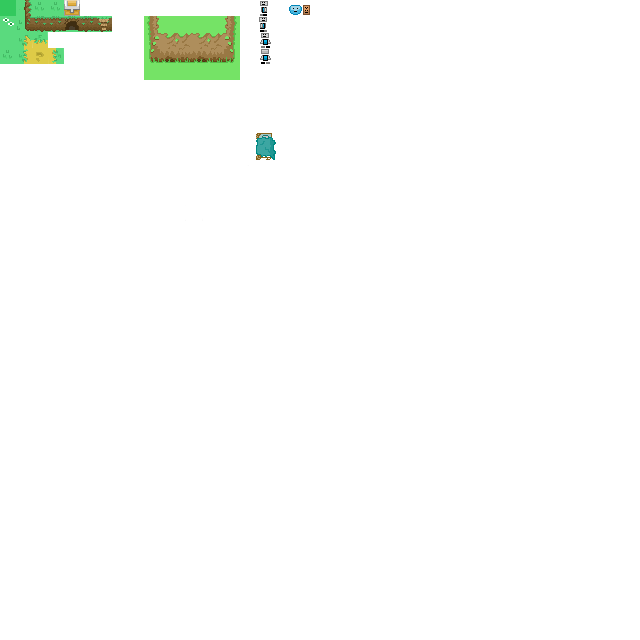
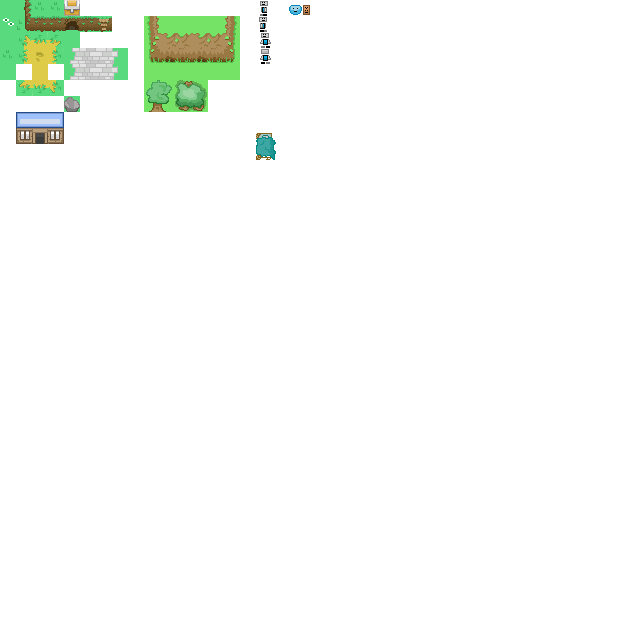
Significant progress on *world* editor...

Changed region(s): [[0.0, 0.0312, 0.2188, 0.25], [0.2188, 0.125, 0.3438, 0.1875], [0.0, 0.0, 0.0312, 0.0312]]

diff --git a/tileeditor/editor.js b/tileeditor/editor.js
@@ -1,0 +1,275 @@
+var selTile = [0,0,"DN"];
+var dragging = false;
+var toolboxPos    = [];
+var maps       = {};
+
+var curObj;
+
+
+var startdrag  = {x:0, y:0};
+var enddrag    = {x:0, y:0};
+
+var usedIDs    = {};
+var lastID     = 0;
+
+function getUniqueID(){
+    return lastID++;
+}
+
+function selectAddItem(itm){
+    $("#maplist").html(
+            $("#maplist").html() + 
+            '<option id="' + itm + '">' + itm + '</option>'
+            );
+}
+
+function switchToMap(which){
+    curObj = maps[which]; 
+}
+
+function createNewMap(){
+    curObj         = {};
+    var curMapID   = getUniqueID();
+
+    curObj.map        = [];
+    curObj.oldmap     = [];
+    curObj.special    = [];
+
+    maps[curMapID] = curObj;
+
+    for (var i=0;i<globals.tilesWide;i++){
+        curObj.map.push([]);
+        curObj.special.push([]);
+        for (var j=0;j<globals.tilesWide;j++){
+            curObj.map[i].push([0,0,"DN"]);
+            curObj.special[i].push([1,0,"ED"]);
+        }
+    }
+
+    selectAddItem(curMapID);
+}
+
+function drag(){
+    if (!dragging){
+        //just started dragging
+
+        startdrag  = {x:globals.mouseX, y:globals.mouseY};
+    }
+
+    enddrag = {x:globals.mouseX, y:globals.mouseY};
+
+    globals.context.strokeRect(Math.min(startdrag.x, enddrag.x), Math.min(startdrag.y, enddrag.y), Math.abs(startdrag.x-enddrag.x), Math.abs(startdrag.y - enddrag.y)); 
+}
+
+function click(){
+    var editedmap = [];
+    if (selTile[2] == "ED"){
+        editedmap = curObj.special;
+
+    } else {
+        editedmap = curObj.map;
+    }
+
+    var returnFlag = false;
+
+    if (enddrag.x - startdrag.x == 0 && enddrag.y - startdrag.y == 0){
+        //Special case: travelling to other map when you click on it
+        if (selTile[2] == "ED" && selTile[0] == 2 && selTile[1] == 0){
+            if (selTile[3] == editedmap[Math.floor(x / globals.tileWidth)][Math.floor(y / globals.tileWidth)][3]){
+                console.log("travelling nao");
+            }
+        }
+    }
+
+    curObj.oldmap = JSON.parse(JSON.stringify(curObj.map));
+    for (var x = Math.min(enddrag.x, startdrag.x); x <= Math.max(enddrag.x, startdrag.x); x += 16){
+        for (var y = Math.min(enddrag.y, startdrag.y); y <= Math.ceil(Math.max(enddrag.y, startdrag.y)/16) * 16; y += 16){
+            if (x < globals.tileWidth * globals.tilesWide &&
+                y < globals.tileWidth * globals.tilesWide ){
+                
+
+                editedmap[Math.floor(x / globals.tileWidth)][Math.floor(y / globals.tileWidth)] = JSON.parse(JSON.stringify(selTile));
+                returnFlag = true;
+            }
+        }
+    }
+
+    if (returnFlag) return;
+
+    var pos = 0;
+    for (var i in Sprites.getOrderedList()){
+        if (utils.pointIntersectRect(globals.mouseX, globals.mouseY, utils.makeRect(toolboxPos[i][0], toolboxPos[i][1], globals.tileWidth))){
+            selTile = JSON.parse(JSON.stringify(Sprites.getNth(i)));
+            if (selTile[2] == "ED" && selTile[0] == 2 && selTile[1] == 0){
+                //special case: map transition tile
+                selTile.push(prompt("Which room to link to?")); 
+            }
+        }
+        ++pos;
+    }
+}
+
+function gameLoop(){
+    if (globals.ticks++ % 4) {
+        drawScreen();
+    }
+    if (globals.mousedown) { 
+        drag();
+        dragging = true;
+    } 
+    if (!globals.mousedown && dragging) {
+        click();
+        dragging = false;
+    }
+    if (globals.keys[90]){
+        //undo
+        var temp = oldmap;
+        oldmap = curObj.map;
+        curObj.map = temp;
+        globals.keys[90] = false;
+    }
+}
+
+
+function drawScreen(){
+    globals.context.clearRect(0,0,globals.maxSize,globals.maxSize);
+
+    for (var i=0;i<globals.tilesWide;i++){
+        for (var j=0;j<globals.tilesWide;j++){
+            Sprites.renderImage(globals.context, i*globals.tileWidth, j*globals.tileWidth, curObj.map[i][j][0], curObj.map[i][j][1], curObj.map[i][j][2]); 
+        }
+    }
+
+
+    //render special editor specific things on top
+    for (var i=0;i<globals.tilesWide;i++){
+        for (var j=0;j<globals.tilesWide;j++){
+            if (curObj.special[i][j][0] == 1 && curObj.special[i][j][1] == 0) continue;
+            Sprites.renderImage(globals.context, i*globals.tileWidth, j*globals.tileWidth, curObj.special[i][j][0], curObj.special[i][j][1], curObj.special[i][j][2]); 
+        }
+    }
+
+
+    //Render highlighted square
+
+    if (globals.mouseX < globals.tileWidth * globals.tilesWide &&
+        globals.mouseY < globals.tileWidth * globals.tilesWide ){
+
+        utils.renderTile(Math.floor(globals.mouseX / globals.tileWidth)*globals.tileWidth, Math.floor(globals.mouseY / globals.tileWidth)*globals.tileWidth, "H");
+    }
+
+    //Render 'toolbox'
+    
+    var toolWidth = 15;
+    var pos = 0;
+    for (var i in Sprites.getOrderedList()){
+        if (selTile == i){
+            globals.context.fillStyle = "ffff11";
+
+            globals.context.fillRect((pos % toolWidth)*(globals.tileWidth+4)-2,
+                                     globals.tileWidth* (globals.tilesWide)-2 + (Math.floor(i/toolWidth)) * 20, 
+                                     globals.tileWidth+4, 
+                                     globals.tileWidth+4);
+        }
+
+        Sprites.renderImage(globals.context, 
+                                  toolboxPos[pos][0], 
+                                  toolboxPos[pos][1], 
+                                  Sprites.getNth(i)[0], 
+                                  Sprites.getNth(i)[1], 
+                                  Sprites.getNth(i)[2]);
+        ++pos;
+    }
+}
+
+function initialize(){
+    //bind event to the select box
+    $("#maplist").change(function(e){
+        switchToMap($("#maplist option:selected").text());
+    });
+
+    $("#newroom").click(function(){
+        createNewMap();
+    });
+    createNewMap();
+    globals.context = document.getElementById('main').getContext('2d');
+    $("#btn").click(function(){
+        /*
+        var out = "data : [\n";
+        for (var i=0;i<curObj.map.length;i++){
+            out += "[";
+            for (var j=0;j<curObj.map.length;j++){ 
+                out += "["+  curObj.map[i][j][0] + "," + curObj.map[i][j][1] + ",'" + curObj.map[i][j][2] + "'], " ; //Not IE compliant, but screw IE
+            }
+            out += "], \n"; //Still not IE compliant
+        }
+        out += "]\n";
+
+        out += "special : [\n";
+
+        for (var i=0;i<curObj.map.length;i++){
+            out += "[";
+            for (var j=0;j<curObj.map.length;j++){ 
+
+                if (curObj.special[i][j][0] == 1 && curObj.special[i][j][1] == 0) {
+
+                    out += "[0], " ; 
+                    continue;
+                }
+                out += "["+  curObj.special[i][j][0] + "," + curObj.special[i][j][1] + ",'" + curObj.special[i][j][2] + "'], " ; 
+            }
+            out += "], \n";
+        }
+        out += "]\n";
+        */
+
+        $("#txt").val("var maps = " + JSON.stringify(maps));
+    });
+
+    $("#lbtn").click(function(){
+        var data = $("#txt").val();
+        //Parse out unnecessary details
+        if (data.indexOf("{") != -1){
+            data = data.substr(data.indexOf("{"));
+        }
+        data = data.substr(data.indexOf("["));
+        if (data.lastIndexOf(",") > data.lastIndexOf("]")){
+            data = data.substring(0, data.lastIndexOf(",")); 
+        }
+        curObj.map = eval(data); //horror music plays
+
+    }); 
+
+    setInterval(gameLoop, 5);
+
+
+    //Store toolbox positions in memory
+
+    var toolWidth = 25;
+    var pos = 0;
+
+
+    for (var i in Sprites.getOrderedList()){
+        toolboxPos.push([
+                           (i % toolWidth  )*(globals.tileWidth+4), 
+                           (globals.tileWidth)*(globals.tilesWide  ) + (Math.floor(i/toolWidth)) * 20, 
+                       ]);
+    }
+
+
+
+}
+
+$(function(){ 
+/*var spriteFiles = {
+    "outside_normal" : "GR",
+    "dungeon"        : "DN",*/
+
+
+    Sprites.loadSpriteFile("editor", function(){
+        Sprites.loadSpriteFile("dungeon", function(){
+            Sprites.loadSpriteFile("outside_normal", initialize);    
+            
+        });
+    });
+});

diff --git a/tileeditor/edit.html b/tileeditor/edit.html
@@ -2,16 +2,31 @@
 <html>
     <head>
         <title> hi </title>
+        <style type="text/css">
+            select { 
+                position: absolute;
+                top: 20px;
+                left: 650px;
+            }
+        </style>
+
         <script type="text/javascript" src="http://ajax.googleapis.com/ajax/libs/jquery/1.4.2/jquery.min.js"> </script>
         <script type="text/javascript" src="../globals.js"> </script>
         <script type="text/javascript" src="../spritesheet.js"> </script>
-        <script type="text/javascript" src="main.js"> </script>
+        <script type="text/javascript" src="editor.js"> </script>
     </head>
 
     <body>
         <canvas id="main" width=600 height=600> </canvas>
+
+        <select id = "maplist" multiple="multiple">
+
+        </select>
+
+        <input type="button" value="new room" id="newroom"/>
         <input type="button" value="output" id="btn"/>
         <input type="button" value="load" id="lbtn"/>
         <textarea rows="5" cols="35" id="txt"></textarea>
+
     </body>
 </html>
